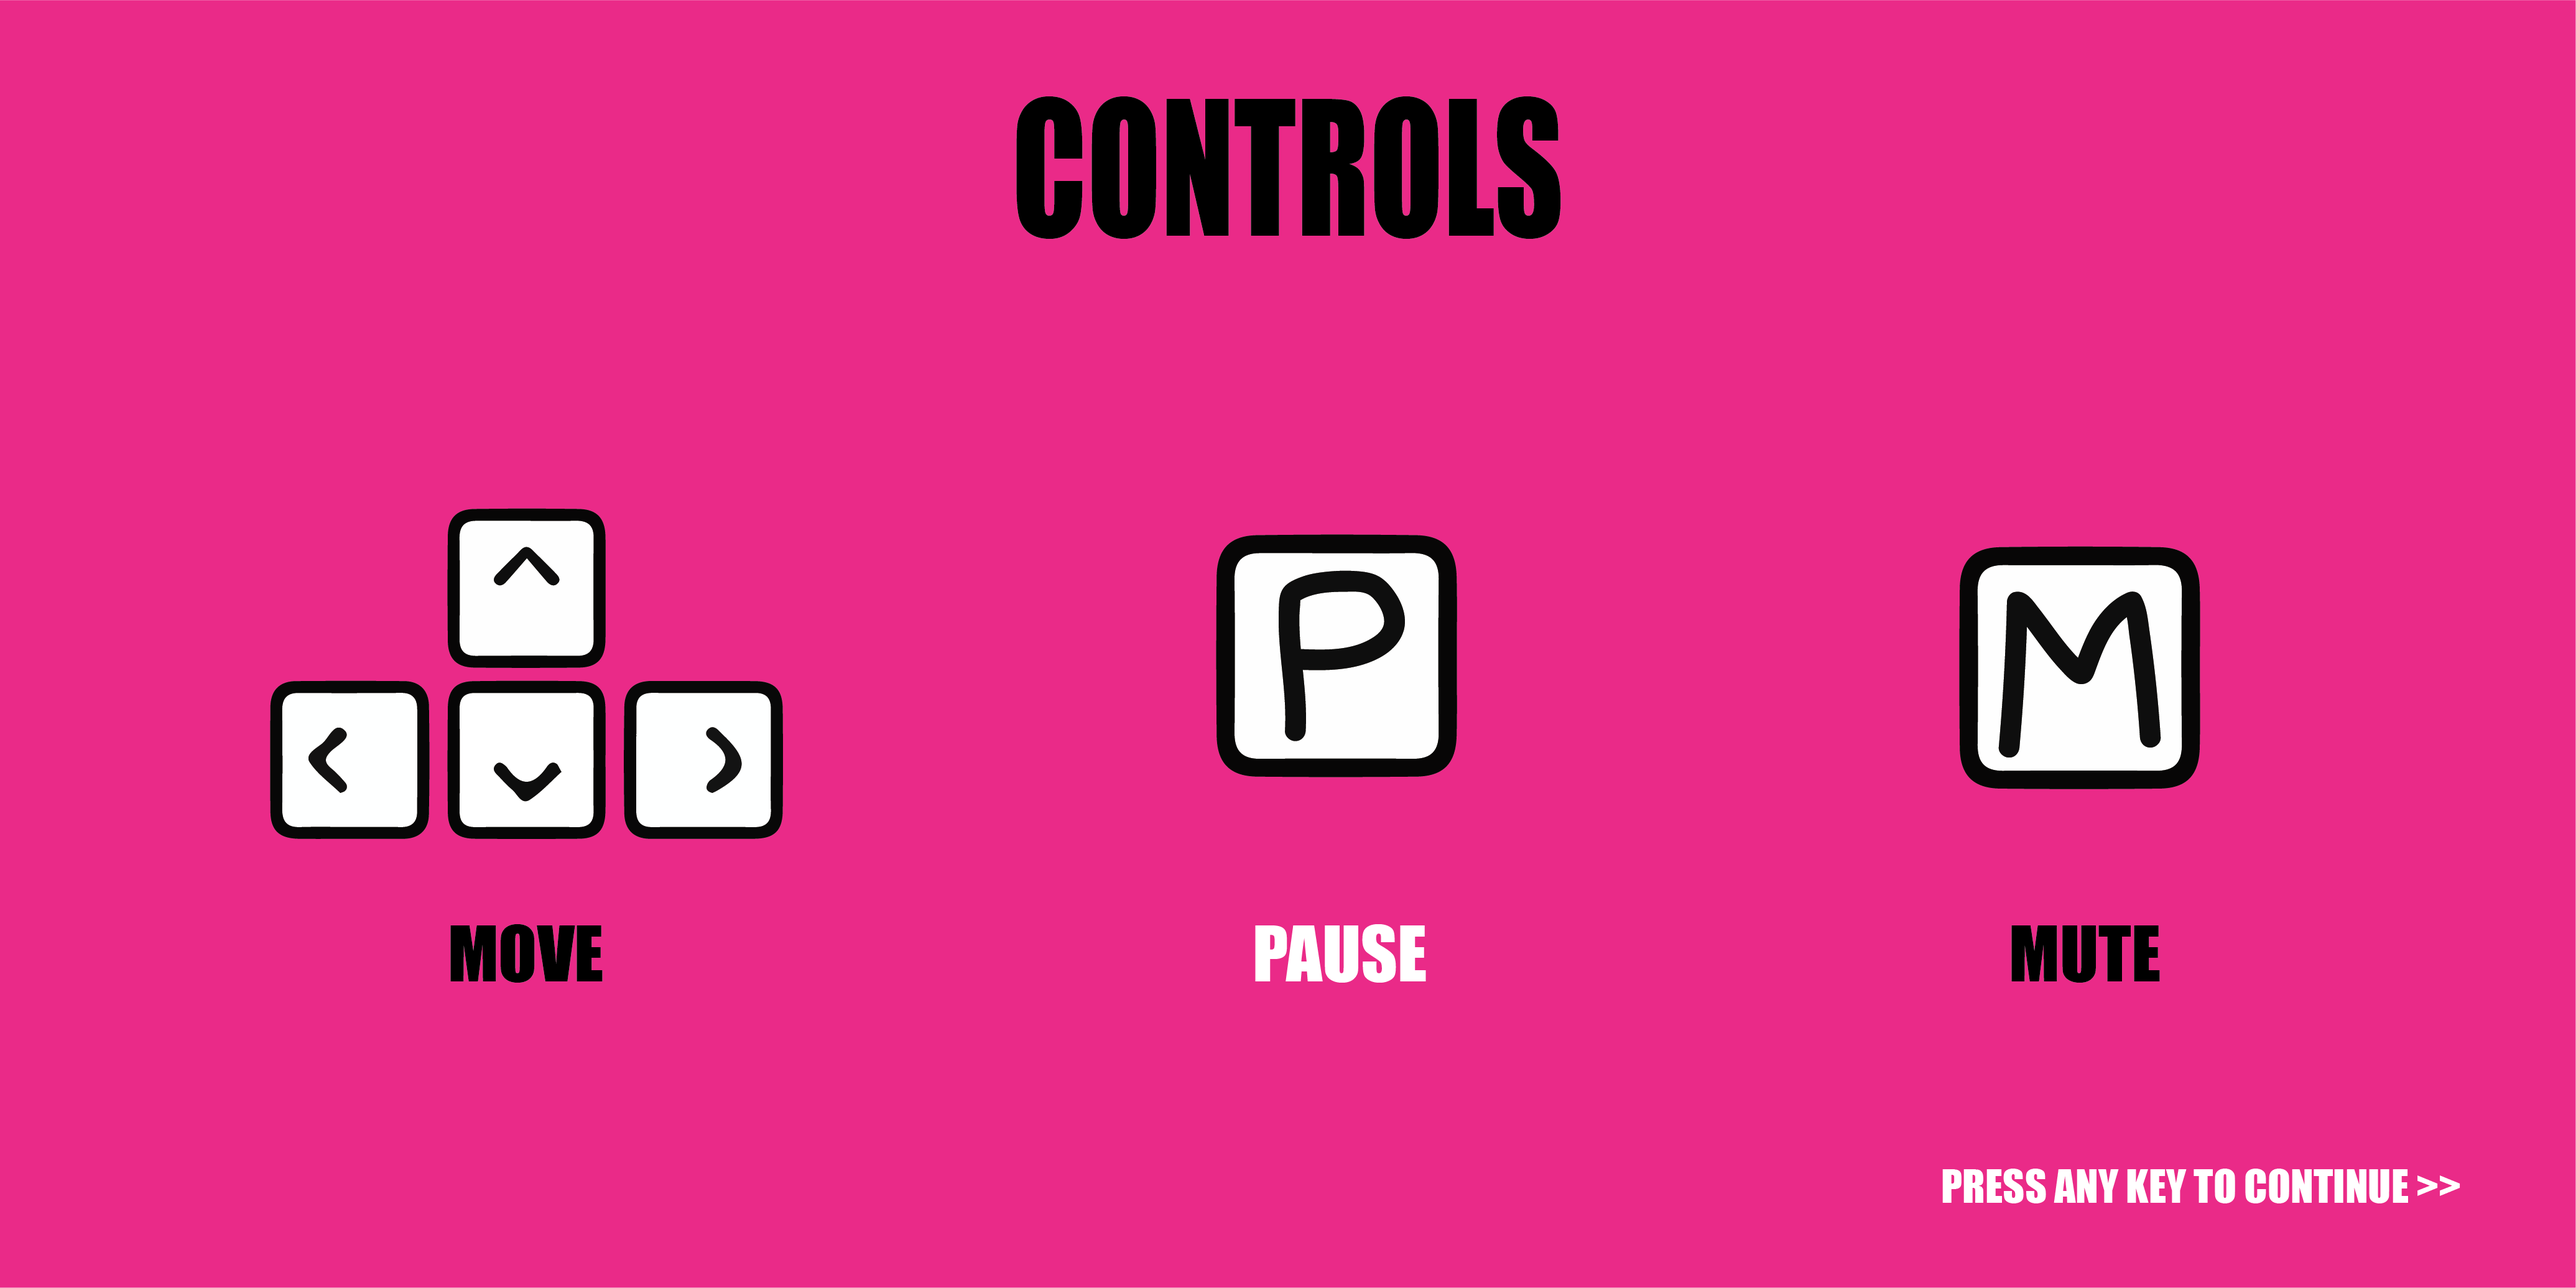
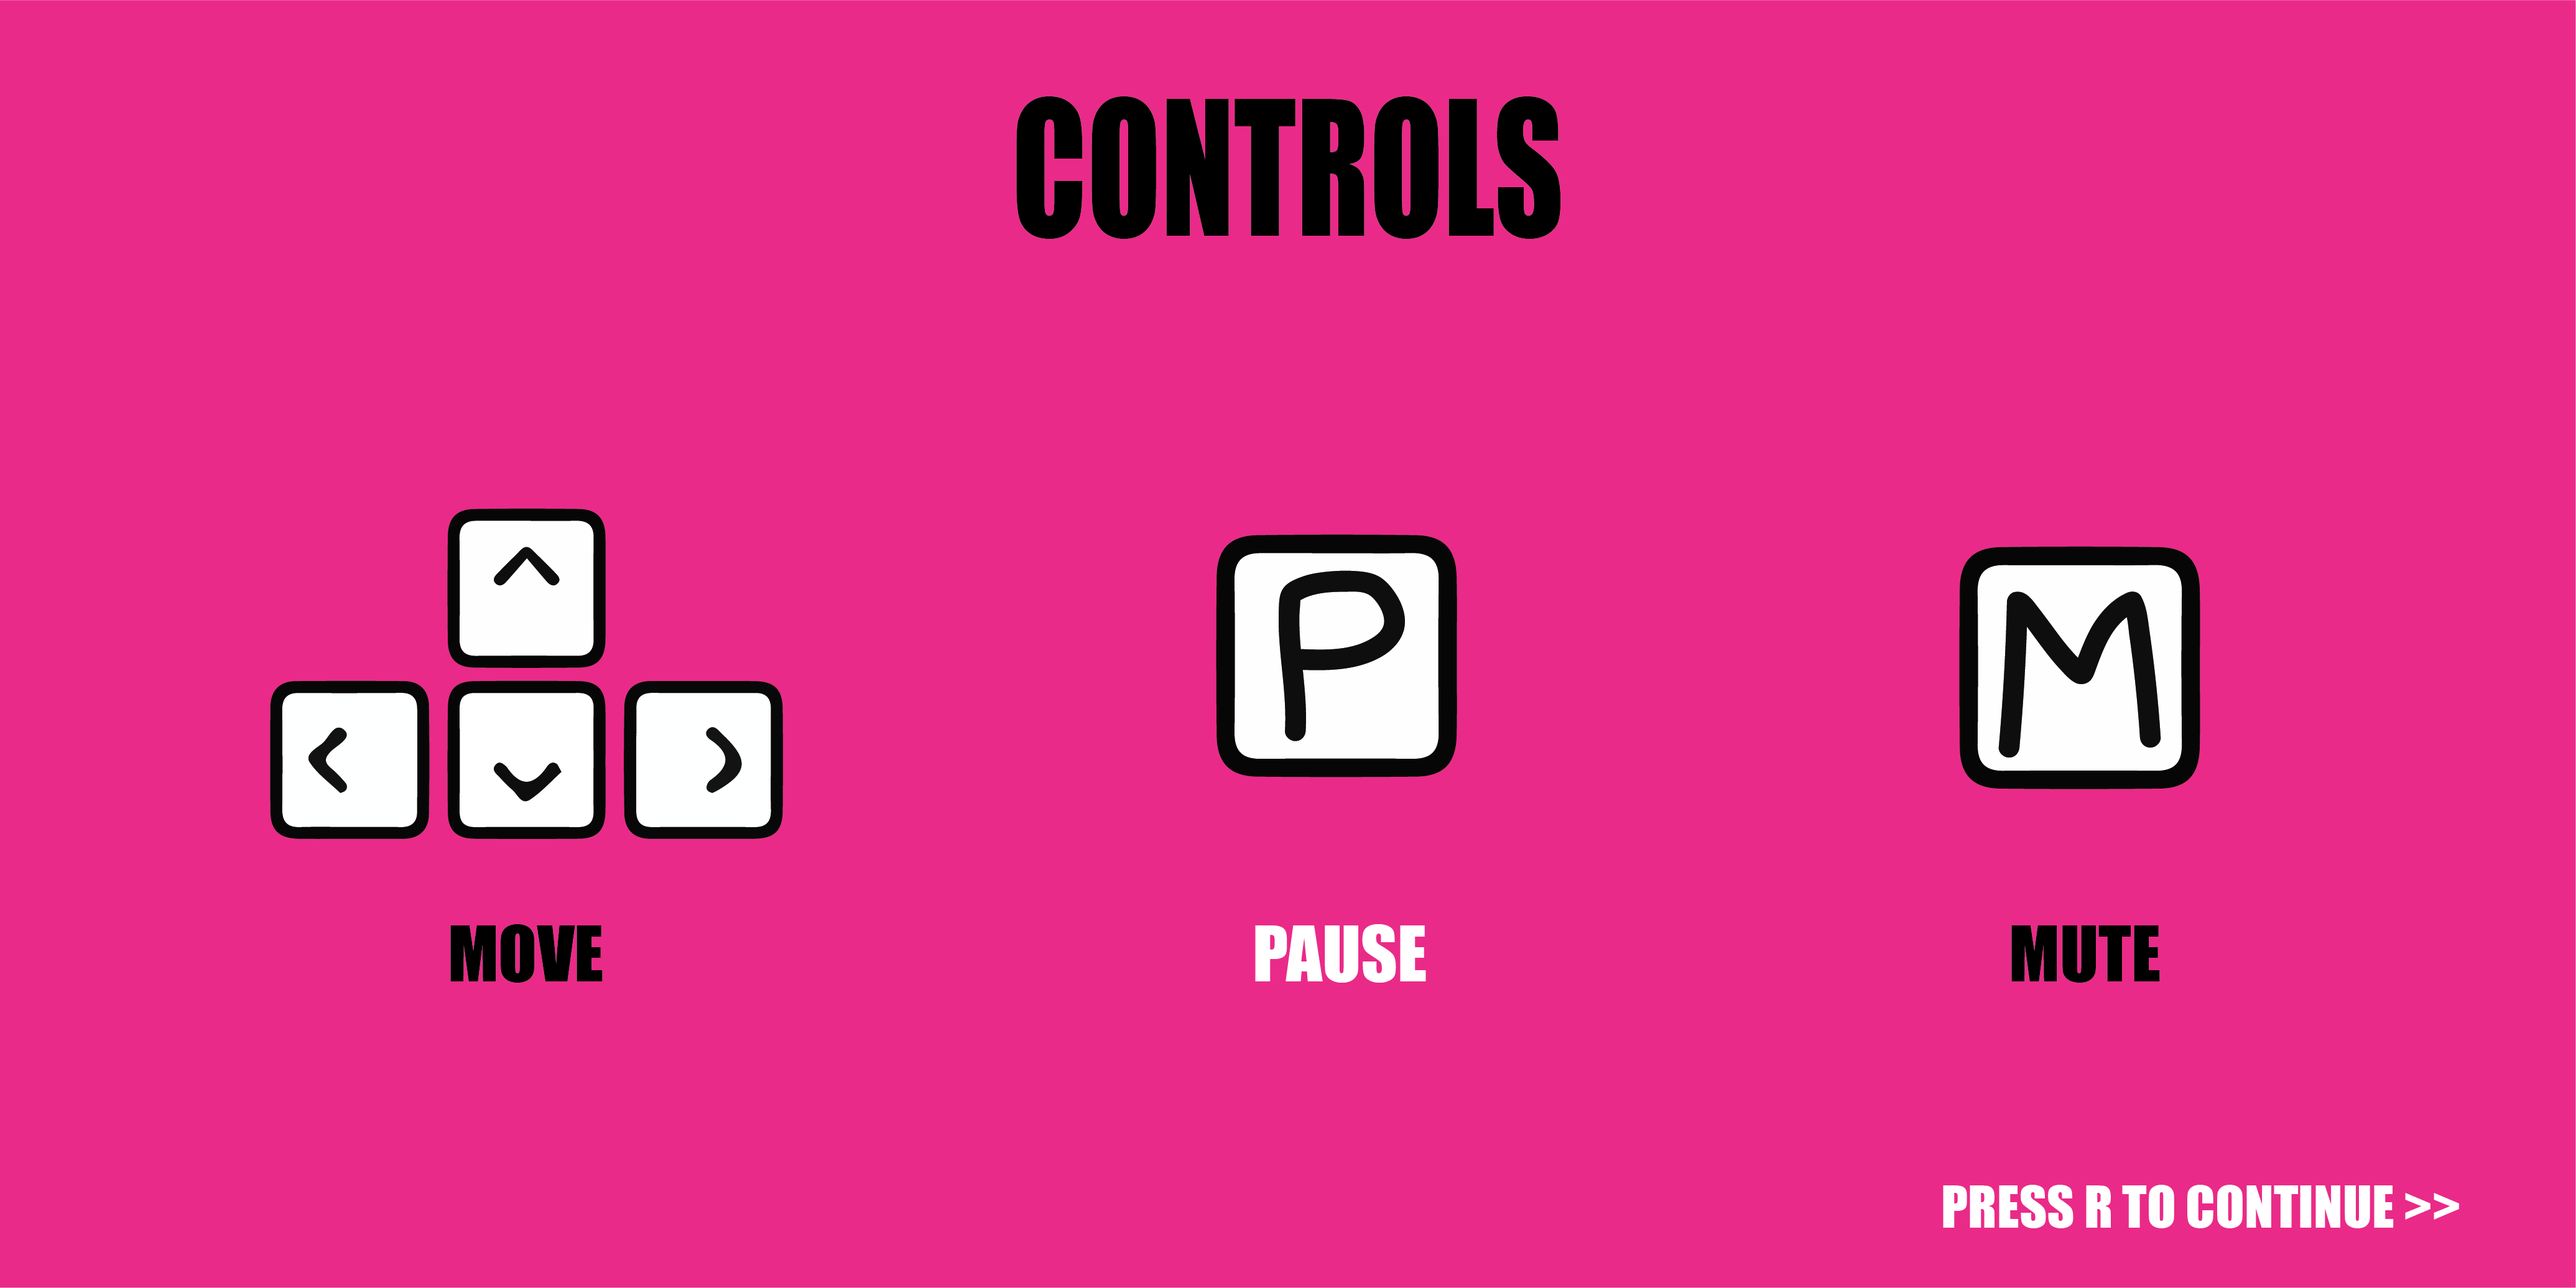
press r to continue

Changed region(s): [[0.7475, 0.8962, 0.9655, 0.958]]

diff --git a/src/nicki/scenes/StartScene.js b/src/nicki/scenes/StartScene.js
@@ -103,8 +103,7 @@ export default class StartScene extends Phaser.Scene {
     this.startImage.setVisible(false);
     this.rulesImage.setVisible(true);
     this.time.delayedCall(50, () => {
-      this.input.keyboard.once("keydown", () => this.showControls());
-      this.input.once("pointerdown", () => this.showControls());
+      this.input.keyboard.once("keydown-R", () => this.showControls());
     });
   }
 
@@ -112,8 +111,9 @@ export default class StartScene extends Phaser.Scene {
     this.rulesImage.setVisible(false);
     this.controlsImage.setVisible(true);
     this.time.delayedCall(50, () => {
-      this.input.keyboard.once("keydown", () => this.scene.start("GameScene"));
-      this.input.once("pointerdown", () => this.scene.start("GameScene"));
+      this.input.keyboard.once("keydown-R", () =>
+        this.scene.start("GameScene")
+      );
     });
   }
 }
